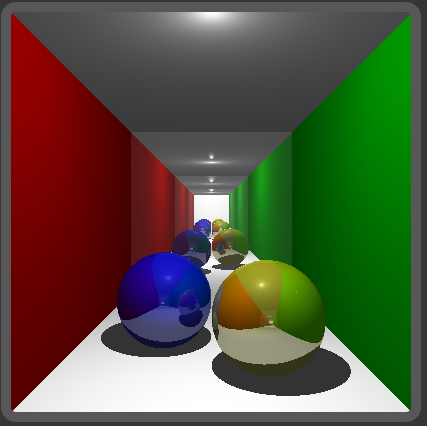
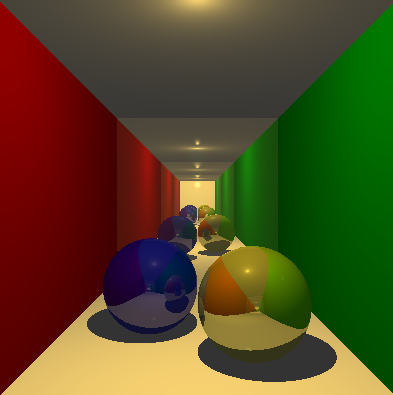
coloured lighting!

diff --git a/raytracer.js b/raytracer.js
@@ -75,11 +75,11 @@ const DIRECTIONAL = 2;
 const lights = [
     {
         type: AMBIENT,
-        intensity: 0.2,
+        intensity: [0.2, 0.2, 0.2],
     },
     {
         type: POINT,
-        intensity: 0.8,
+        intensity: [0.77, 0.62, 0.24], // Slightly orange light like a lightbulb
         position: [0, -0.9, 2],
     },
 ];
@@ -173,7 +173,7 @@ function traceRay(origin, direction, tMin, tMax, recursionDepth) {
     const normal = vectorNormalize(
         vectorSubtraction(point, closestSphere.center)
     ); // Calculate sphere normal
-    const colour = colourMultiplication(
+    const colour = colourColourMultiplication(
         closestSphere.colour,
         computeLighting(
             point,
@@ -230,12 +230,12 @@ function intersectRaySphere(origin, direction, sphere) {
 }
 
 function computeLighting(point, normal, objectToCamera, specular) {
-    let intensity = 0;
+    let intensity = [0, 0, 0];
 
     // Add the intensity of all lights together
     for (light of lights) {
         if (light.type === AMBIENT) {
-            intensity += light.intensity;
+            intensity = vectorAddition(intensity, light.intensity);
         } else {
             let direction, tMax;
             if (light.type === POINT) {
@@ -264,8 +264,13 @@ function computeLighting(point, normal, objectToCamera, specular) {
 
             // Don't illumnate with negative values (would make it darker)
             if (dotProduct > 0) {
-                intensity +=
-                    (light.intensity * dotProduct) / vectorMagnitude(direction);
+                intensity = vectorAddition(
+                    intensity,
+                    vectorDivison(
+                        vectorMultiplication(light.intensity, dotProduct),
+                        vectorMagnitude(direction)
+                    )
+                );
             }
 
             // Specular lighting
@@ -285,7 +290,13 @@ function computeLighting(point, normal, objectToCamera, specular) {
                     const intensityMultiplier =
                         normalizedReflectionDotProduct ** specular;
 
-                    intensity += light.intensity * intensityMultiplier;
+                    intensity = vectorAddition(
+                        intensity,
+                        vectorMultiplication(
+                            light.intensity,
+                            intensityMultiplier
+                        )
+                    );
                 }
             }
         }
@@ -324,6 +335,10 @@ function colourMultiplication(vector, value) {
     return vectorMultiplication(vector, value).map((v) =>
         Math.max(0, Math.min(255, v))
     );
+}
+
+function colourColourMultiplication(a, b) {
+    return a.map((v, i) => Math.max(0, Math.min(255, a[i] * b[i])));
 }
 
 function colourAddition(a, b) {

diff --git a/README.md b/README.md
@@ -1,6 +1,6 @@
 # Raytracer
 
-A simple raytracer built on https://www.gabrielgambetta.com/computer-graphics-from-scratch/02-basic-raytracing.html
+A simple raytracer built on https://www.gabrielgambetta.com/computer-graphics-from-scratch/02-basic-raytracing.html. Also added coloured lighting
 
 **Example:**
 
